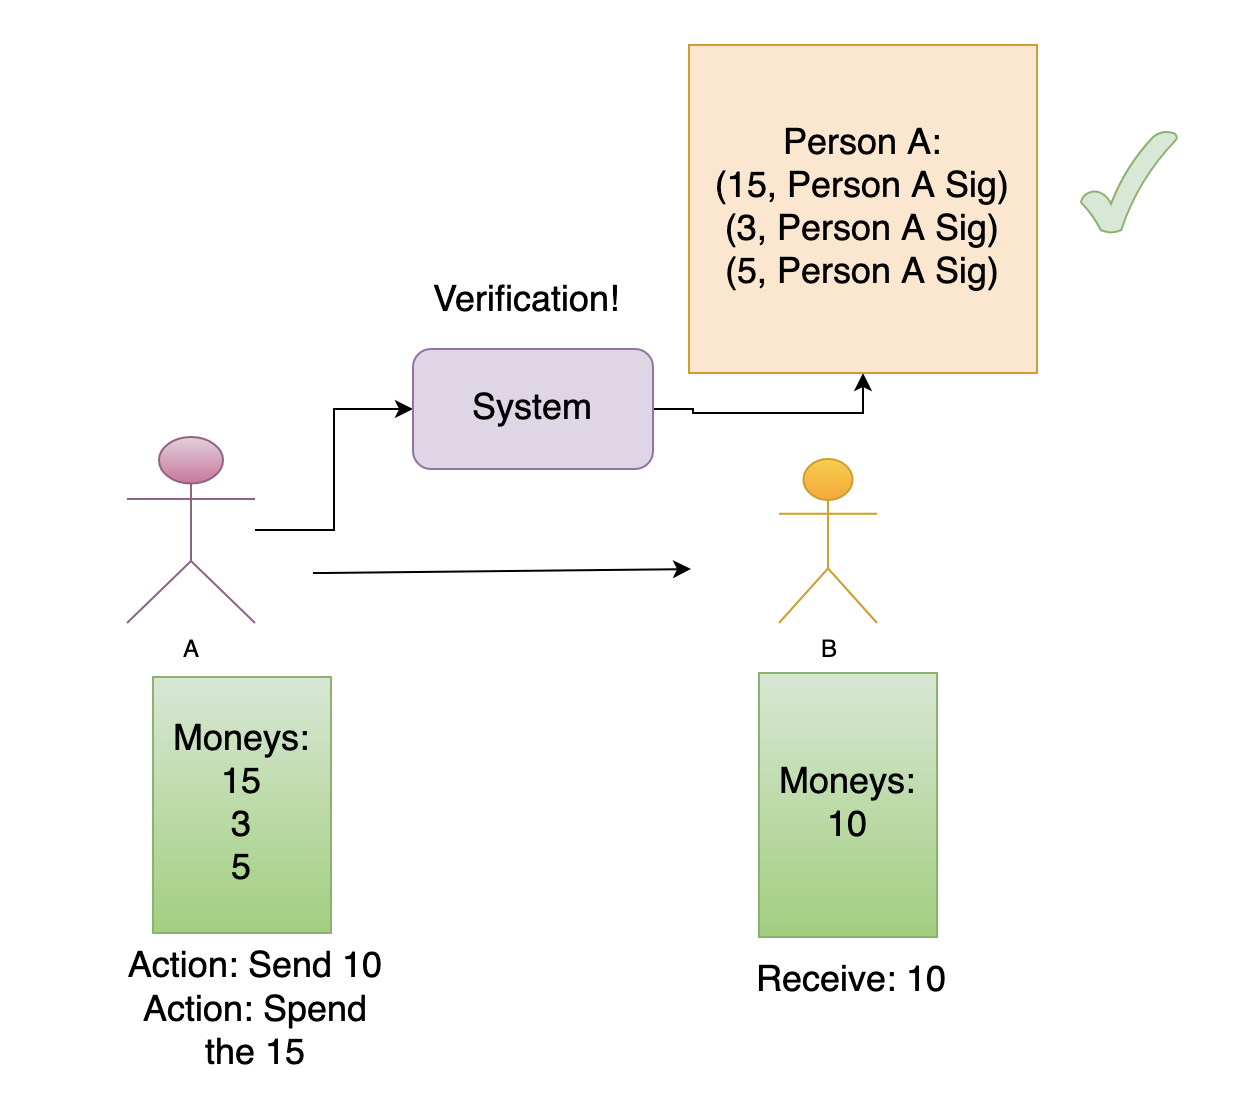
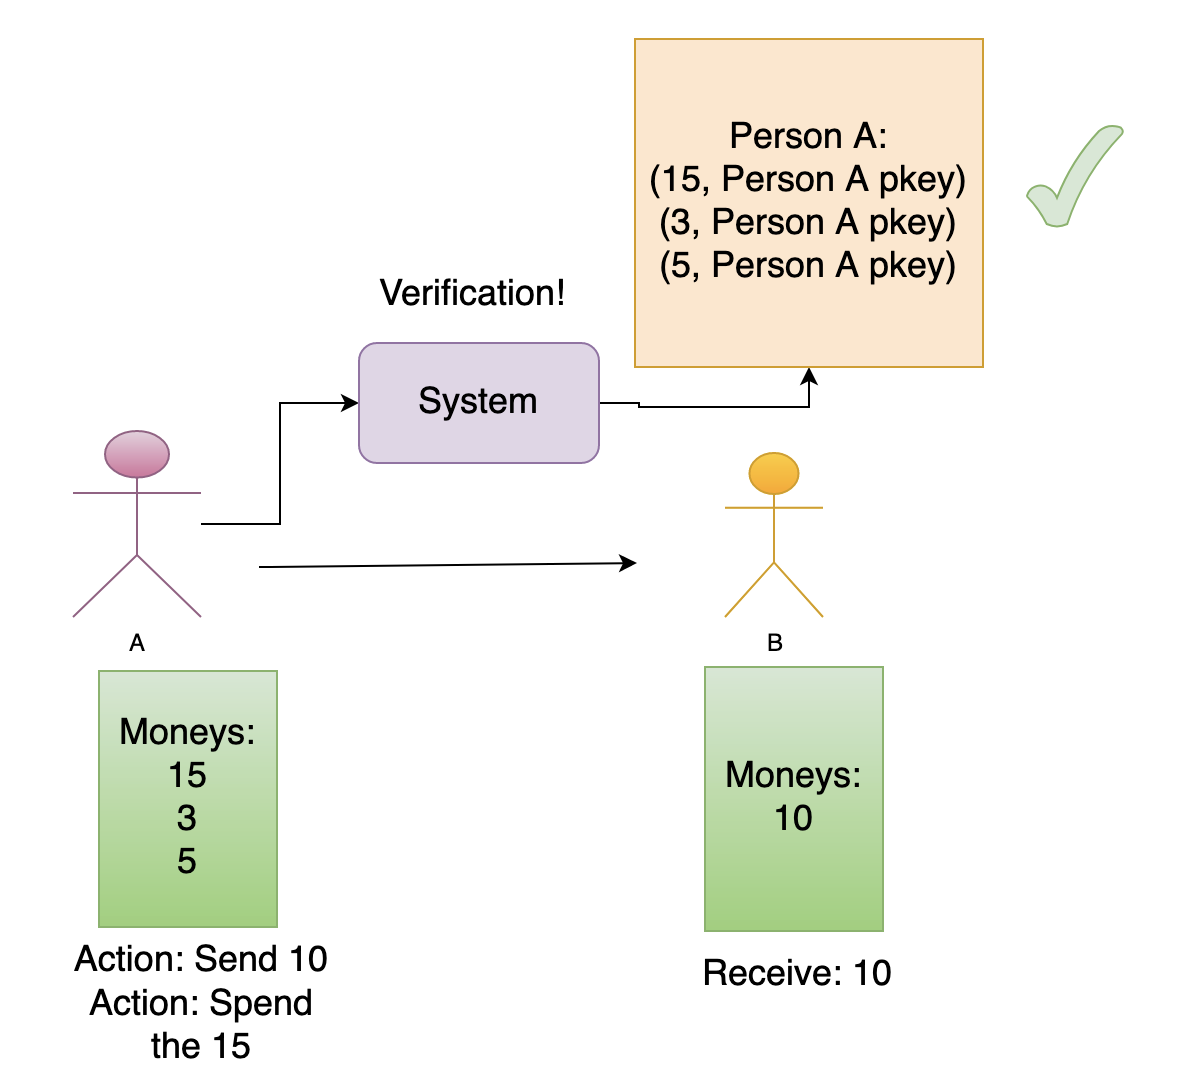
Finished UTXO vs Accounts lecture

diff --git a/syllabus/3-Blockchain/3-Accounts_and_UTXOs_slides.md b/syllabus/3-Blockchain/3-Accounts_and_UTXOs_slides.md
@@ -1,4 +1,7 @@
-# Accounting Models & User Abstractions on Blockchains
+---
+title: Accounting Models & User Abstractions in Blockchains
+---
+# Accounting Models & User Abstractions in Blockchains
 * Andrew Burger
 * Parity, Integritee. Yay blockchain and things
 ---
@@ -30,8 +33,8 @@ Notes:
 <img style="width: 700px; height 500px; float:middle;" src="../../assets/img/3-Blockchain/3.2-utxo-money-example.png"/>
 ---
 ## Paradigm A How would we do this?
-* 1.) You have some uniquely identifiable piece of data with a signature attached(A hash which signifies some id of a spendable thing + a signature saying I can spend that thing) In more computer science terms we have some data that can be altered only by a specific entity so we want to provide proof we can alter it. 
-* 2.) You have some value assosciated with this piece of data and an owner(Value + Pubkey) Some data which can be altered along with a key stating who can alter it.
+* 1.) You have some uniquely identifiable piece of data with a signature attached(A hash which signifies some id of a spendable thing + a signature saying I can spend that thing) In other words we have some data that can be altered only by a specific entity so we want to provide proof we can alter it. 
+* 2.) You have data which can be altered along with a key stating who can alter it.(Value + Pubkey)
 * Thing 1 we can refer to as an input
 * Thing 2 we can refer to as an output
 ---
@@ -40,11 +43,13 @@ Notes:
 Notes:
     TODO: Insert picture showing a table of hash values mapping to these "outputs"(Data + owner)
 ---
+## Visual What are we talking about here?
+<img style="width: 700px; height 500px; float:middle;" src="../../assets/img/3-Blockchain/3.2-utxo-state-table.png"/>
+---
 ## So what is the notion of a User?
 * A public key and all of the uniquely identifiable data which can be manipulated by that public key
 ---
-### Make a request for verification by this system (A transition)(We described somewhat of the `State`) Now lets talk about how to transition the state using this new verification model.
-* We described somewhat of the `State` Now lets talk about how to transition the State using this new verification model.
+### We described somewhat of the `State` Now lets talk about how to transition the State using this new verification model.
 Notes:
     TODO: Show some image of something transitioning
 ---
@@ -54,6 +59,7 @@ Notes:
 * A list of inputs + a list of outputs
 ---
 ### What were those input output thingies again?
+<img style="width: 700px; height 500px; float:middle;" src="../../assets/img/3-Blockchain/3.2-utxo-transaction-format.png"/>
 Notes:
     TODO: Show picture of inputs and outputs in a transaction similar to UTXO frameless explain how new outputs are derived from previously specified outputs from the input 
 ---
@@ -63,8 +69,12 @@ Notes:
 * We must verify that the resulting state which has been provided is a valid one(We define what this is)
 * In the case of money or just a raw value we can assume that you cannot take some piece of moneys worth 10 and create a list of new outputs which have more than 10 moneys
 ---
+## Transition
+<img style="width: 700px; height 500px; float:middle;" src="../../assets/img/3-Blockchain/3.2-utxo-transition.png"/>
+---
 ## Unspent Transaction Outputs(UTXOS) solved...
 * Now whenever someone mentions UTXO's and the UTXO model you can now fundamentally know what actually is being referenced..(Hopefully!) 
+<img style="width: 400px; height 300px; float:middle;" src="../../assets/img/3-Blockchain/3.2-cartoon-cheering.png"/>
 Notes:
     TODO: Add some picture of a person cheering and happy
 ---
@@ -82,6 +92,9 @@ Notes:
 Notes:
     TODO: Show picture of a table mapping a pubkey to a value or data item(in its simplest form a value)
 ---
+## Accounts State Table
+<img style="width: 700px; height 500px; float:middle;" src="../../assets/img/3-Blockchain/3.2-accounts-state-table.png"/>
+---
 ## Now that state is much easier to comprehend!!
 * What about transitioning my state or account?
 ---
@@ -89,6 +102,9 @@ Notes:
 * What does a transaction look like now?
 Notes:
     TODO: Insert some picture here which shows some money being sent from person A to person B but instead person A just signs a message saying to send to person B and the system determines what the updated output result or state will be
+---
+## Transaction + Transition
+<img style="width: 700px; height 500px; float:middle;" src="../../assets/img/3-Blockchain/3.2-accounts-transition.png"/>
 ---
 ## So what happens in a State transition in this computation model?
 * We still verify but we verify less and determine more!
@@ -98,8 +114,6 @@ Notes:
 ---
 ## Accounts vs UTXO model
 * Oh the fun begins..
-Notes:
-   TODO: Insert picture of Homer
 ---
 ## Size(Storage)
 ### Accounts wins this one...
@@ -140,6 +154,7 @@ Notes:
 * Both are good depending on the usecase!! 
 ---
 ## At the end of the day it is just a state machine
+<img style="width: 700px; height 500px; float:middle;" src="../../assets/img/3-Blockchain/3.2-homer-cartoon.png"/>
 Notes:
     TODO: Insert some fun picture and hint at how to agree on all of these now understood (Transactions) to come...
 ---
